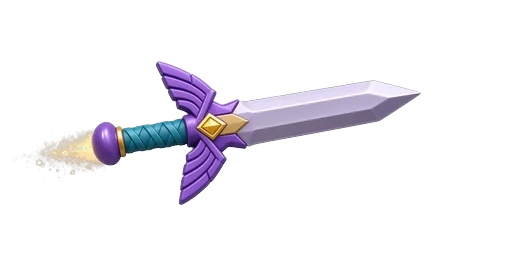
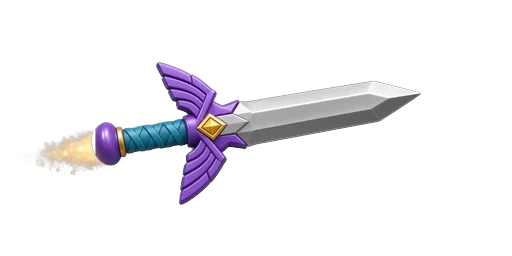
Leo's Smash Race: Muse art drop v2 (road grounds, silver sword, chevron-tyre truck; manifest v4), truck exhaust on the body, boost flames when boost reuses the drive file

diff --git a/games/leo_smash_race/grokbot/art/manifest.js b/games/leo_smash_race/grokbot/art/manifest.js
@@ -7,7 +7,7 @@
    - alias: 'other.name' reuses another sprite; fx.exhaust: [x, y] (0..1 of the drive canvas) is where boost flames come out.
    A missing or broken file silently falls back to the interim art, so partial drops are safe. */
 window.LEO_MANIFEST = {
-  version: 3,  // art drop v1 (Muse), wired in by Grokbot
+  version: 4,  // Muse art drop 2: new road grounds, sword v3, truck v3 (same file names, cache bust)
   base: 'art/',
   // Vehicle poses without their own file borrow another pose; the game adds the boost flames and the celebrate bounce in code.
   poseAliases: { boost: 'drive', celebrate: 'fly' },
@@ -21,7 +21,7 @@ window.LEO_MANIFEST = {
     'veh.bibi.fly':       { src: 'vehicles/bibi_fly.webp', size: [512, 256], anchor: [0.5, 0.92], wu: 190 },
     'veh.bibi.boost':     { src: 'vehicles/bibi_drive.webp', size: [512, 256], anchor: [0.5, 0.92], wu: 190 },  // = drive (no boost pose yet; flames/speed FX in code)
     'veh.bibi.celebrate': { src: 'vehicles/bibi_fly.webp', size: [512, 256], anchor: [0.5, 0.92], wu: 190 },  // = fly (no celebrate pose yet)
-    'veh.truck.drive':    { src: 'vehicles/truck_drive.webp', size: [512, 256], anchor: [0.5, 0.92], wu: 245, fx: { exhaust: [0.13, 0.44] } },
+    'veh.truck.drive':    { src: 'vehicles/truck_drive.webp', size: [512, 256], anchor: [0.5, 0.92], wu: 245, fx: { exhaust: [0.20, 0.40] } },  // Grokbot: moved onto the rear of the v3 body (0.13/0.44 sat in the air behind the tyre)
     'veh.truck.fly':      { src: 'vehicles/truck_fly.webp', size: [512, 256], anchor: [0.5, 0.92], wu: 245 },
     'veh.truck.boost':    { src: 'vehicles/truck_drive.webp', size: [512, 256], anchor: [0.5, 0.92], wu: 245 },  // = drive (no boost pose yet; flames/speed FX in code)
     'veh.truck.celebrate': { src: 'vehicles/truck_fly.webp', size: [512, 256], anchor: [0.5, 0.92], wu: 245 },  // = fly (no celebrate pose yet)

diff --git a/games/leo_smash_race/grokbot/game.js b/games/leo_smash_race/grokbot/game.js
@@ -120,10 +120,13 @@ function drawPlayer(R, t) {
   // specials behind/around
   if (P.superT > 0) drawSpecial(R, t, true);
   drawSprite(sp, P.x, P.laneF, P.z + bob, { rot: rot || 0.0001, sq });
-  if (P.boostT > 0 && ART.resolve(sp) !== 'veh.' + V.id + '.boost') boostFlame(R, sp, P.z + bob, rot, t);
+  if (P.boostT > 0 && !ownBoostArt(V.id)) boostFlame(R, sp, P.z + bob, rot, t);
   if (P.superT > 0) drawSpecial(R, t, false);
   if (P.boostT > 0 && !reduced()) { ctx.strokeStyle = 'rgba(255,255,255,.7)'; ctx.lineWidth = 3; for (let i = 0; i < 6; i++) { const y = laneY(P.laneF) - (P.z + 10 + i * 14) * view.s, x = X(P.x) - V.len * 0.6 * view.s - ((t * 900 + i * 137) % 220); ctx.beginPath(); ctx.moveTo(x, y); ctx.lineTo(x - 60, y); ctx.stroke(); } }
 }
+// true only when the boost pose has its own file (not an alias, and not the drive/fly file reused under the boost name)
+function ownBoostArt(id) { const S = ART.manifest.sprites, n = 'veh.' + id + '.', b = S[ART.resolve(n + 'boost')]; if (!b || !b.src) return false;
+  return ![n + 'drive', n + 'fly'].some(k => S[k] && S[k].src === b.src); }
 function boostFlame(R, name, z, rot, t) {
   const P = R.p, sp = ART.get(name), k = kL(P.laneF), w = sp.wu * view.s * k, h = w * sp.h / sp.w, ex = ART.fx(name).exhaust || [0.08, 0.6];
   const ox = (ex[0] - sp.ax) * w, oy = (ex[1] - sp.ay) * h, c = Math.cos(rot), s2 = Math.sin(rot);

diff --git a/games/leo_smash_race/grokbot/game.html b/games/leo_smash_race/grokbot/game.html
@@ -104,12 +104,12 @@
   <!-- world board -->
   <div id="rankModal" class="modal hidden" role="dialog" aria-modal="true" aria-label="World board"><div class="mcard rank"><h2>🌍 World board</h2><div id="rkList" class="rklist"></div><p id="rkMe" class="rkme"></p><button id="rkClose" class="ghost">Close</button></div></div>
 </div>
-<script src="art/manifest.js?v=3"></script>
+<script src="art/manifest.js?v=4"></script>
 <script src="sim.js?v=2"></script>
 <script src="cube.js?v=1"></script>
 <script src="proc.js?v=3"></script>
 <script src="assets.js?v=3"></script>
 <script src="audio.js?v=1"></script>
 <script src="rank.js?v=1"></script>
-<script src="game.js?v=3"></script>
+<script src="game.js?v=4"></script>
 </body></html>
